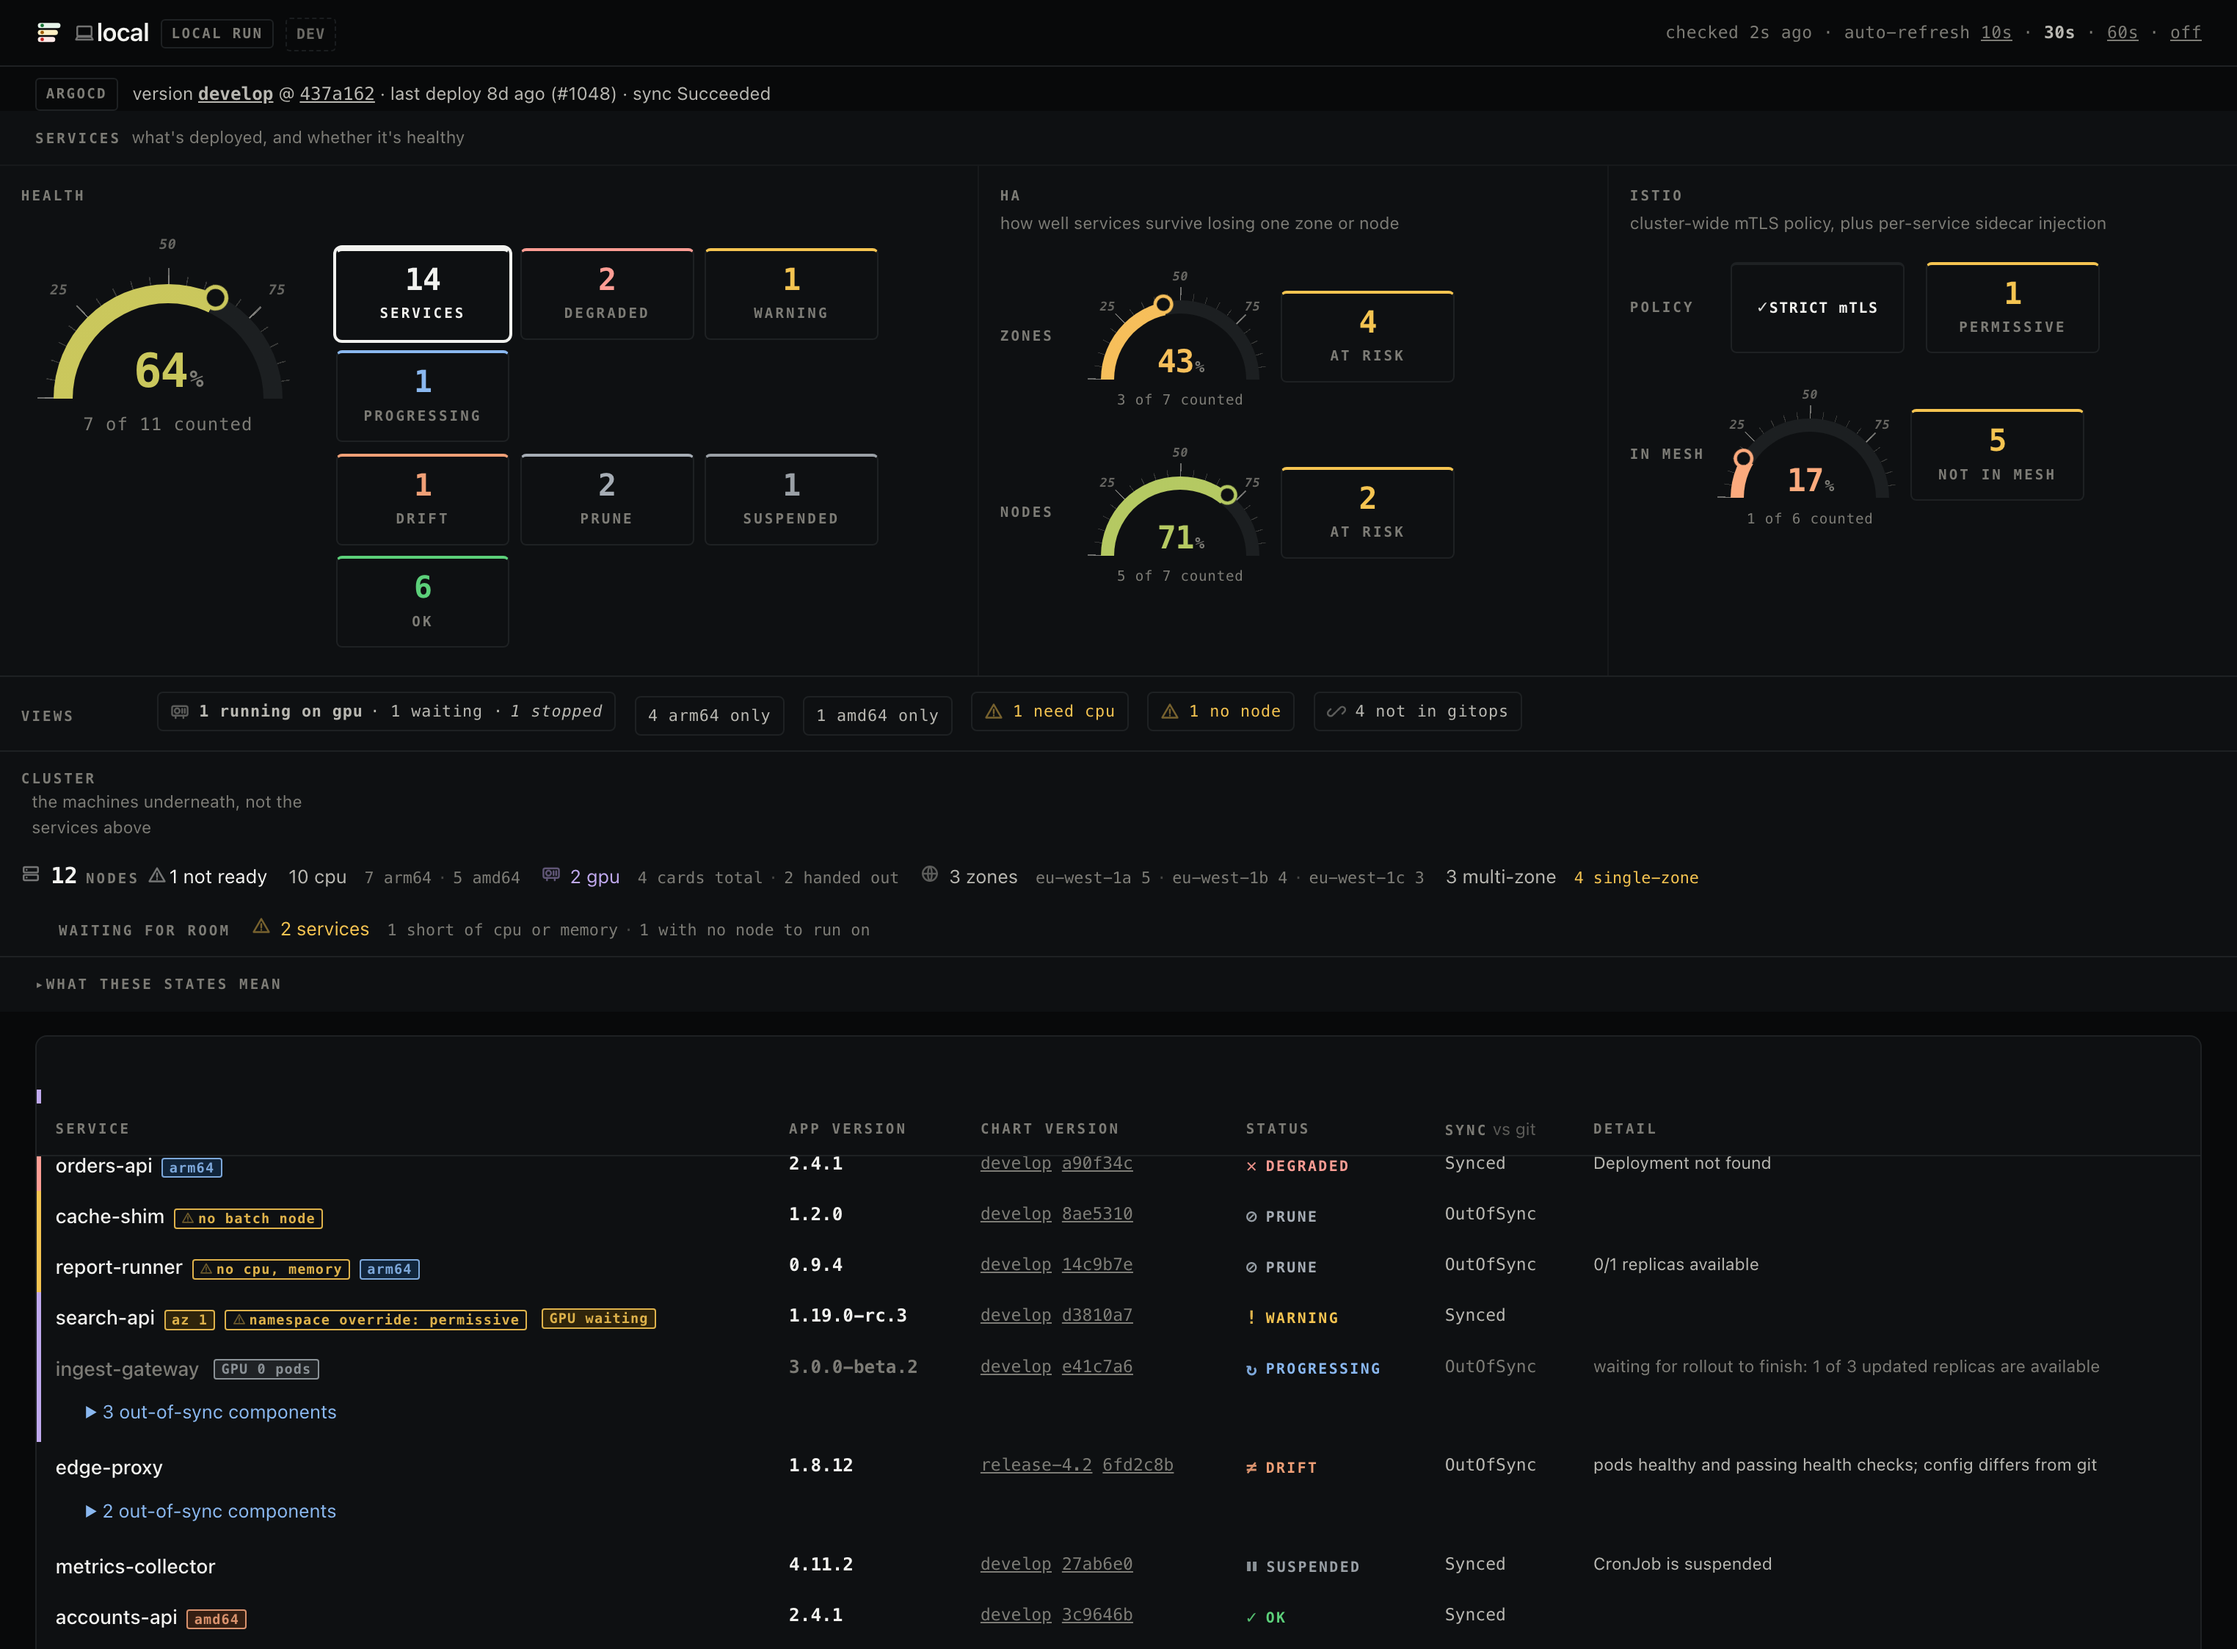
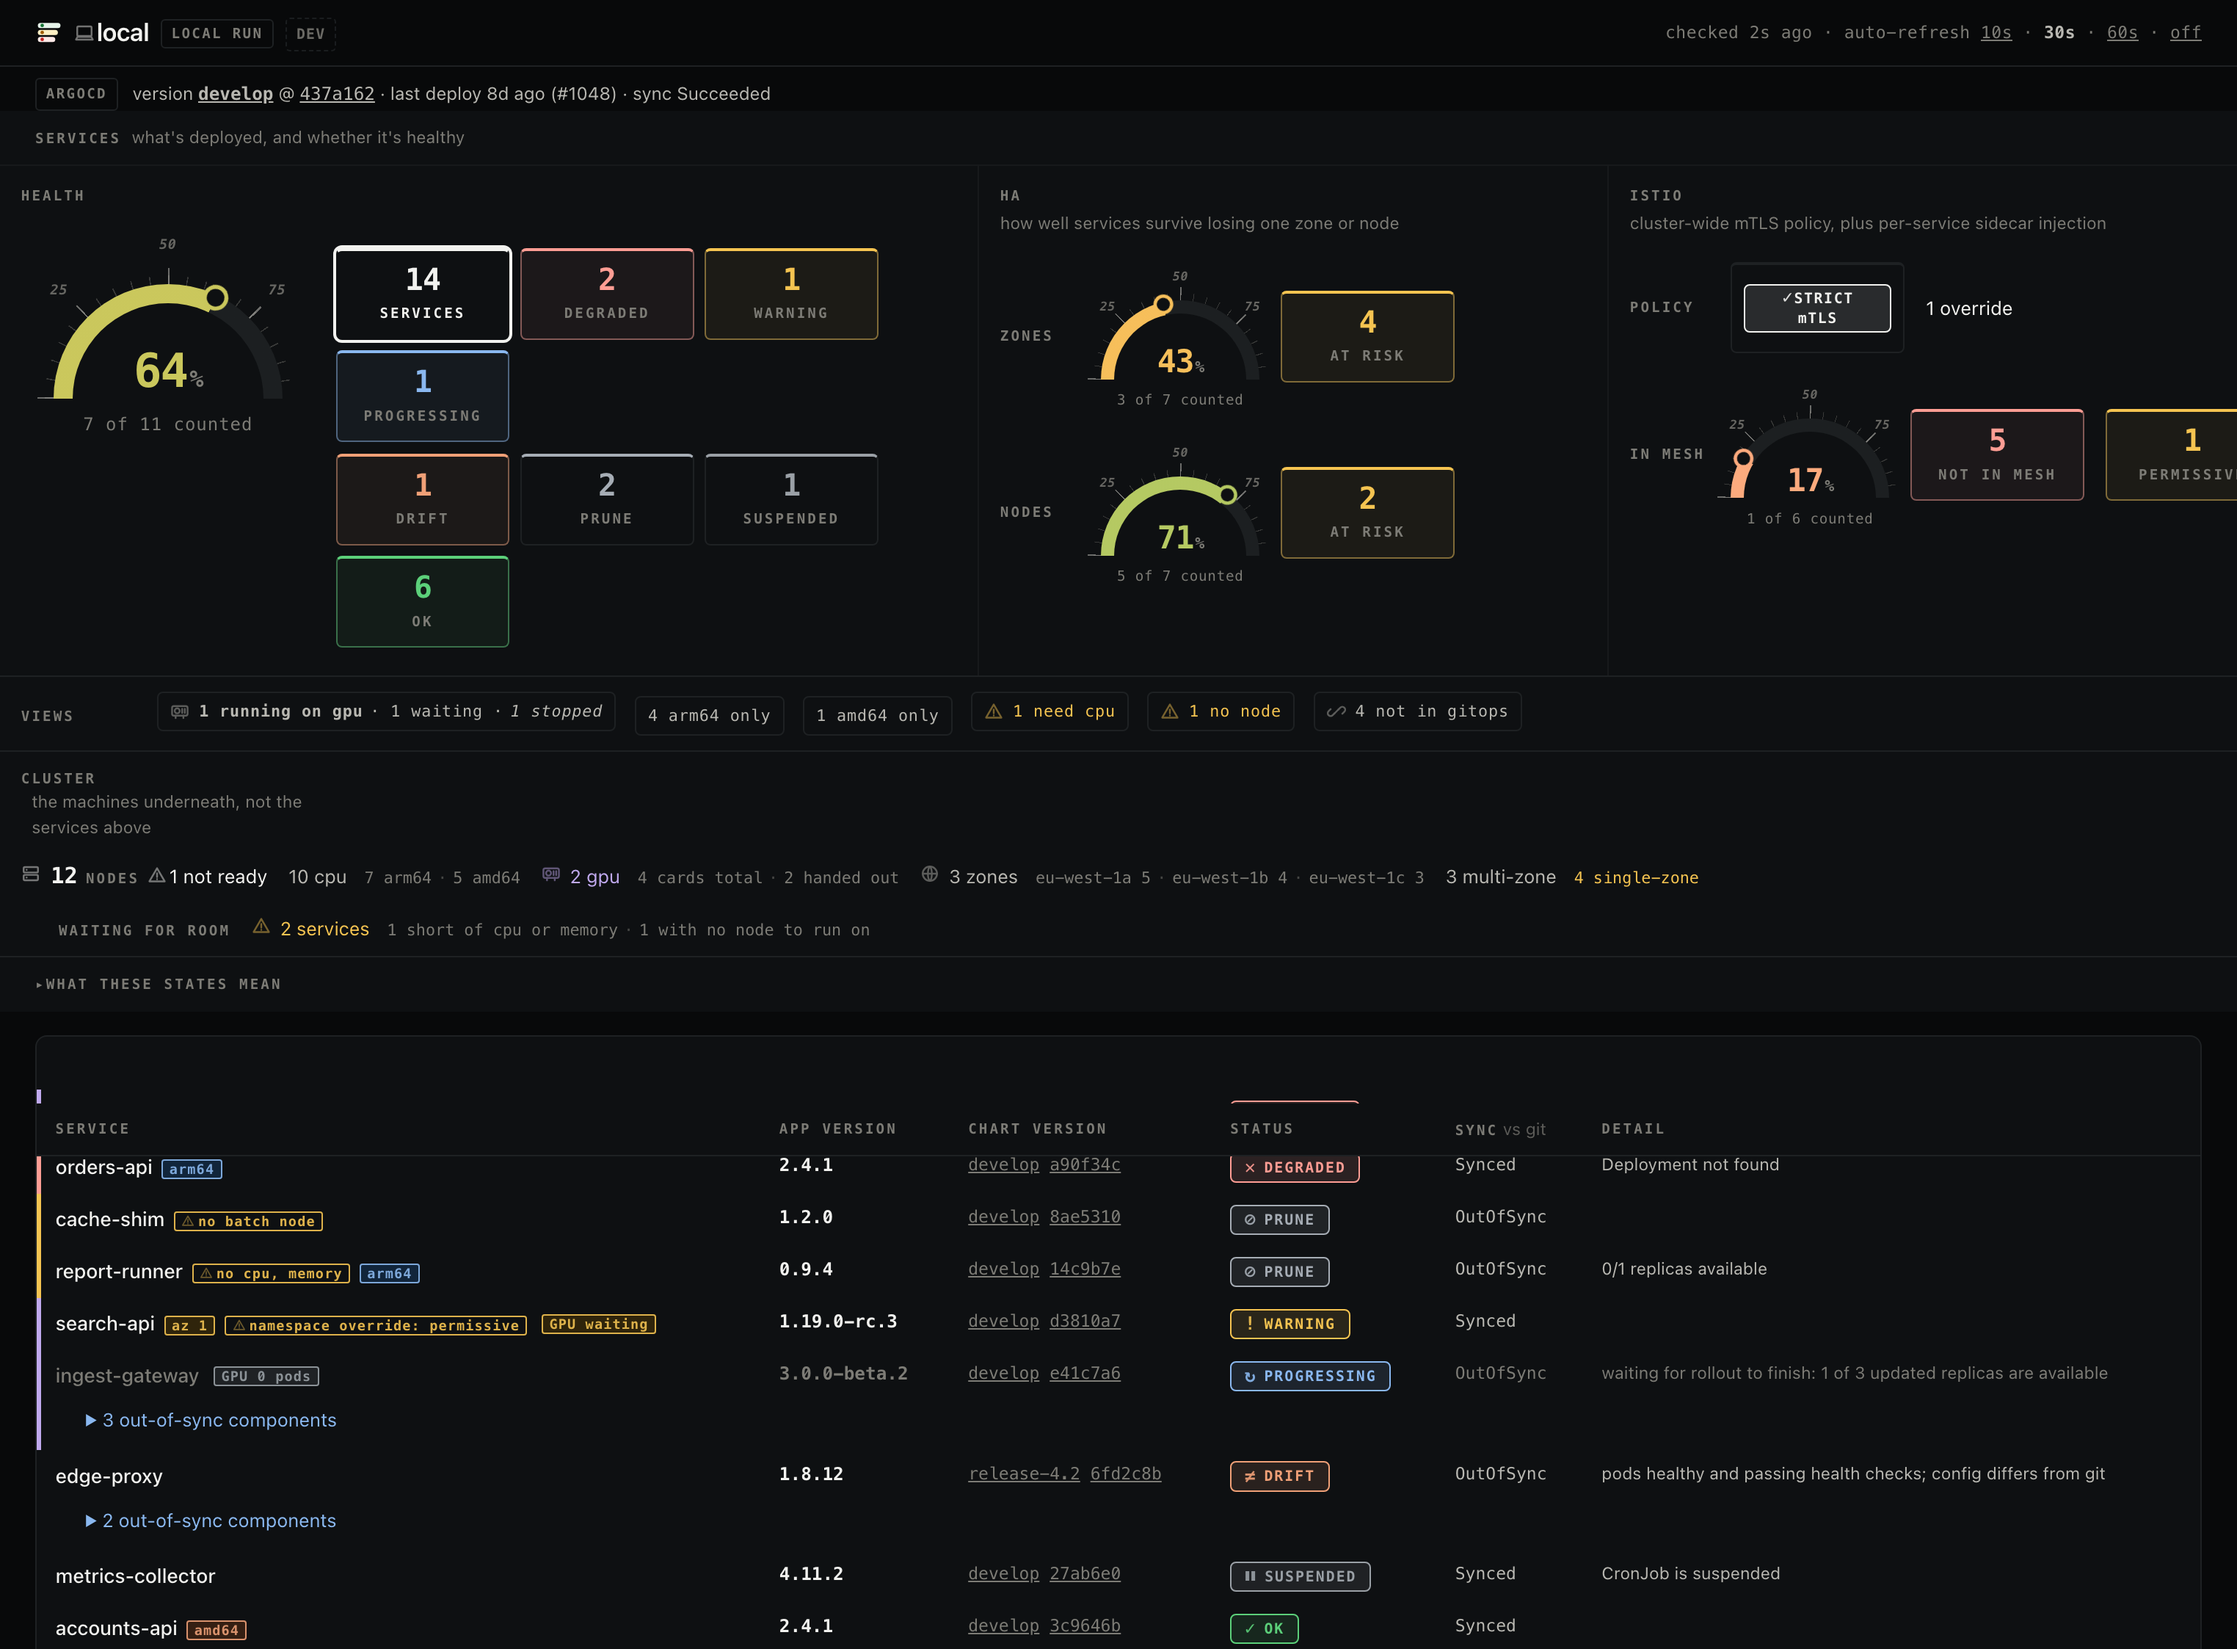
style: bordered/tinted pills and tiles, regroup the Istio panel
Pills and state tiles now carry a full colour ring plus a light tint
of their own colour (currentColor + color-mix, one rule per class
instead of restating each state), not just a top accent line -- reads
as "this box is about that state" at a glance.

Istio panel: the "permissive" tile moves out of the Policy row (it
was squeezed into the same fixed-width cell as the pill, wrapping the
pill's text across three lines) and sits next to "not in mesh" in the
In-mesh row instead, where both are peers of the same kind of fact.
Policy row gets a lightweight "N overrides" text note beside the pill
instead. "Not in mesh" is now t-degraded (red), not t-warning (amber)
-- missing a sidecar entirely is a harder gap than a policy override.

diff --git a/internal/web/templates/index.html b/internal/web/templates/index.html
@@ -584,11 +584,13 @@ h1 { font-size: 1.05rem; letter-spacing: -.015em; }
 .tile .n { font-size: 1.3rem; font-weight: 700; letter-spacing: -.02em; }
 .tile .k { margin-top: .3rem; }
 .tile.t-total       { border-color: var(--hair); border-top-color: var(--ink); }
-.tile.t-ok          { background: var(--surface); border-color: var(--hair); border-top-color: var(--ok-fg); }
-.tile.t-degraded    { background: var(--surface); border-color: var(--hair); border-top-color: var(--deg-fg); }
-.tile.t-warning     { background: var(--surface); border-color: var(--hair); border-top-color: var(--warn-fg); }
-.tile.t-progressing { background: var(--surface); border-color: var(--hair); border-top-color: var(--prog-fg); }
-.tile.t-drift       { background: var(--surface); border-color: var(--hair); border-top-color: var(--drift-fg); }
+/* A full colour ring, not just the top rule: reads as "this box is about that
+   state" at a glance, the same way the .pill capsule beside it does now. */
+.tile.t-ok          { background: color-mix(in srgb, var(--ok-fg) 6%, var(--surface));     border-color: color-mix(in srgb, var(--ok-fg) 45%, var(--hair));     border-top-color: var(--ok-fg); }
+.tile.t-degraded    { background: color-mix(in srgb, var(--deg-fg) 6%, var(--surface));    border-color: color-mix(in srgb, var(--deg-fg) 45%, var(--hair));    border-top-color: var(--deg-fg); }
+.tile.t-warning     { background: color-mix(in srgb, var(--warn-fg) 6%, var(--surface));   border-color: color-mix(in srgb, var(--warn-fg) 45%, var(--hair));   border-top-color: var(--warn-fg); }
+.tile.t-progressing { background: color-mix(in srgb, var(--prog-fg) 6%, var(--surface));   border-color: color-mix(in srgb, var(--prog-fg) 45%, var(--hair));   border-top-color: var(--prog-fg); }
+.tile.t-drift       { background: color-mix(in srgb, var(--drift-fg) 6%, var(--surface));  border-color: color-mix(in srgb, var(--drift-fg) 45%, var(--hair));  border-top-color: var(--drift-fg); }
 .tile.t-prune       { background: var(--surface); border-color: var(--hair); border-top-color: var(--prune-fg); }
 .tile.t-suspended   { background: var(--surface); border-color: var(--hair); border-top-color: var(--susp-fg); }
 .tile.t-ok .k, .tile.t-degraded .k, .tile.t-warning .k, .tile.t-progressing .k,
@@ -730,13 +732,17 @@ tbody.svc:hover td { background: var(--sunken); }
 .svc.is-blocked  td:first-child { box-shadow: inset 3px 0 0 var(--warn-fg); }
 tbody.svc.is-gpu td:first-child { box-shadow: inset 3px 0 0 var(--gpu-fg); }
 
-/* Status: glyph + word, no capsule. */
+/* Status: glyph + word in a bordered, lightly tinted capsule -- currentColor picks
+   up whichever state's colour the base .s-* rule already set, so one rule covers
+   all seven states instead of restating each border/background pair. */
 .pill {
-  padding: 0; border-radius: 0; background: transparent;
-  font-family: var(--mono); font-size: .62rem; letter-spacing: .12em;
+  padding: .12rem .55rem; border-radius: 4px; border: 1px solid currentColor;
+  font-family: var(--mono); font-size: .62rem; letter-spacing: .1em;
 }
 .pill.s-ok, .pill.s-degraded, .pill.s-warning, .pill.s-progressing,
-.pill.s-drift, .pill.s-prune, .pill.s-suspended { background: transparent; }
+.pill.s-drift, .pill.s-prune, .pill.s-suspended {
+  background: color-mix(in srgb, currentColor 12%, var(--surface));
+}
 .pill .g { opacity: .9; }
 
 /* Inline badges: outline in their own colour, never a fill. */
@@ -940,11 +946,7 @@ footer { font-family: var(--mono); font-size: .64rem; letter-spacing: .04em; }
       </span></span>
       {{- if .Scoped}}<span class="cap-part is-warn" title="The default PeerAuthentication object carries a selector, so it applies to one workload, not the whole mesh.">{{icon "warn"}}workload-scoped</span>{{end}}
       </div>
-      {{if $.Snapshot.Summary.MeshPolicyPermissive}}
-      <a class="tile t-warning{{if $.FilterActive "mesh" "permissive"}} is-on{{end}}" href="{{$.FilterHref "mesh" "permissive"}}" title="{{$.Snapshot.Summary.MeshPolicyPermissive}} service{{if ne $.Snapshot.Summary.MeshPolicyPermissive 1}}s{{end}} whose own effective mTLS mode is PERMISSIVE, across both services and not-in-gitops workloads -- from a namespace- or workload-level override, or because the mesh-wide default itself is PERMISSIVE. Click to show which."><div class="n">{{$.Snapshot.Summary.MeshPolicyPermissive}}</div><div class="k">permissive</div></a>
-      {{else if $.Snapshot.Summary.MeshPolicyEligible}}
-      <div class="tile t-ok"><div class="n">0</div><div class="k">permissive</div></div>
-      {{end}}
+      {{- if $.Snapshot.Summary.MeshPolicyPermissive}}<span class="cap-part" title="{{$.Snapshot.Summary.MeshPolicyPermissive}} service{{if ne $.Snapshot.Summary.MeshPolicyPermissive 1}}s{{end}} carry their own namespace- or workload-level PeerAuthentication override, not just the cluster-wide default above.">{{$.Snapshot.Summary.MeshPolicyPermissive}} override{{if ne $.Snapshot.Summary.MeshPolicyPermissive 1}}s{{end}}</span>{{end}}
       {{else}}
       <div class="cap-note">
         {{- if .Denied}}mesh mTLS needs a Role granting <span class="mono">get</span> on the <span class="mono">default</span> <span class="mono">peerauthentications.security.istio.io</span> object in the Istio namespace; the default install grants nothing there.
@@ -971,9 +973,14 @@ footer { font-family: var(--mono); font-size: .64rem; letter-spacing: .04em; }
         <span class="hd-cap">{{if .Known}}{{.Injected}} of {{.Eligible}} counted{{else}}no services counted{{end}}</span>
       </div>
       {{if .NotInMesh}}
-      <a class="tile t-warning{{if $.FilterActive "mesh" "not-injected"}} is-on{{end}}" href="{{$.FilterHref "mesh" "not-injected"}}" title="{{.NotInMesh}} not in mesh: at least one running pod, across both services and not-in-gitops workloads, lacks the Istio sidecar. Sidecar injection only, not a per-service mTLS enforcement guarantee. Click to show which."><div class="n">{{.NotInMesh}}</div><div class="k">not in mesh</div></a>
+      <a class="tile t-degraded{{if $.FilterActive "mesh" "not-injected"}} is-on{{end}}" href="{{$.FilterHref "mesh" "not-injected"}}" title="{{.NotInMesh}} not in mesh: at least one running pod, across both services and not-in-gitops workloads, lacks the Istio sidecar. Sidecar injection only, not a per-service mTLS enforcement guarantee. Click to show which."><div class="n">{{.NotInMesh}}</div><div class="k">not in mesh</div></a>
       {{else if .Known}}
       <div class="tile t-ok"><div class="n">0</div><div class="k">not in mesh</div></div>
+      {{end}}
+      {{if $.Snapshot.Summary.MeshPolicyPermissive}}
+      <a class="tile t-warning{{if $.FilterActive "mesh" "permissive"}} is-on{{end}}" href="{{$.FilterHref "mesh" "permissive"}}" title="{{$.Snapshot.Summary.MeshPolicyPermissive}} service{{if ne $.Snapshot.Summary.MeshPolicyPermissive 1}}s{{end}} whose own effective mTLS mode is PERMISSIVE, across both services and not-in-gitops workloads -- from a namespace- or workload-level override, or because the mesh-wide default itself is PERMISSIVE. Click to show which."><div class="n">{{$.Snapshot.Summary.MeshPolicyPermissive}}</div><div class="k">permissive</div></a>
+      {{else if $.Snapshot.Summary.MeshPolicyEligible}}
+      <div class="tile t-ok"><div class="n">0</div><div class="k">permissive</div></div>
       {{end}}
     </div>
     {{end}}
